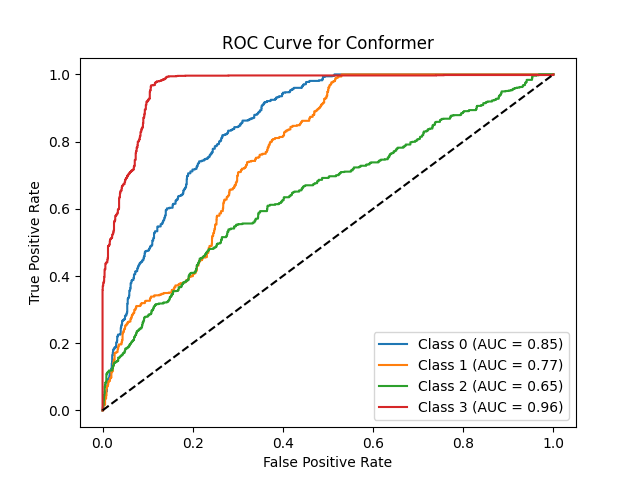
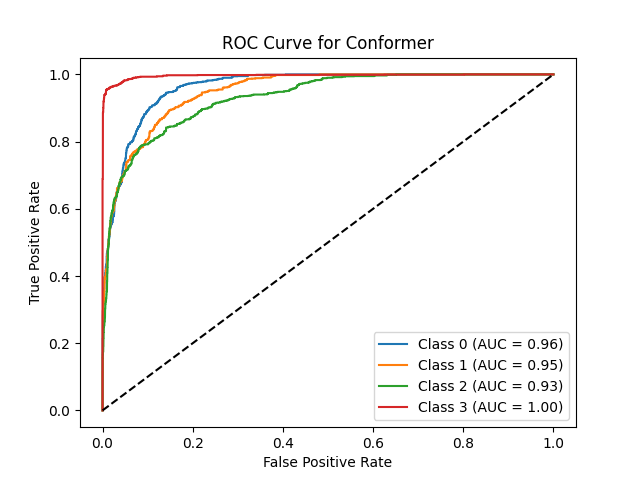
Create

diff --git a/EvaluationModels.py b/EvaluationModels.py
@@ -44,9 +44,9 @@ DEFAULT_MATRIX_LABEL_FONT_SIZE = 12
 DEFAULT_MATRIX_TITLE_FONT_SIZE = 14
 DEFAULT_SHOW_PLOT = False
 DEFAULT_DATASET_DIRECTORY = "Dataset/"
-DEFAULT_NUMBER_EPOCHS = 1
+DEFAULT_NUMBER_EPOCHS = 10
 DEFAULT_BATCH_SIZE = 32
-DEFAULT_NUMBER_SPLITS = 2
+DEFAULT_NUMBER_SPLITS = 5
 DEFAULT_LOSS = 'sparse_categorical_crossentropy'
 DEFAULT_SAMPLE_RATE = 8000
 DEFAULT_OVERLAP = 2
